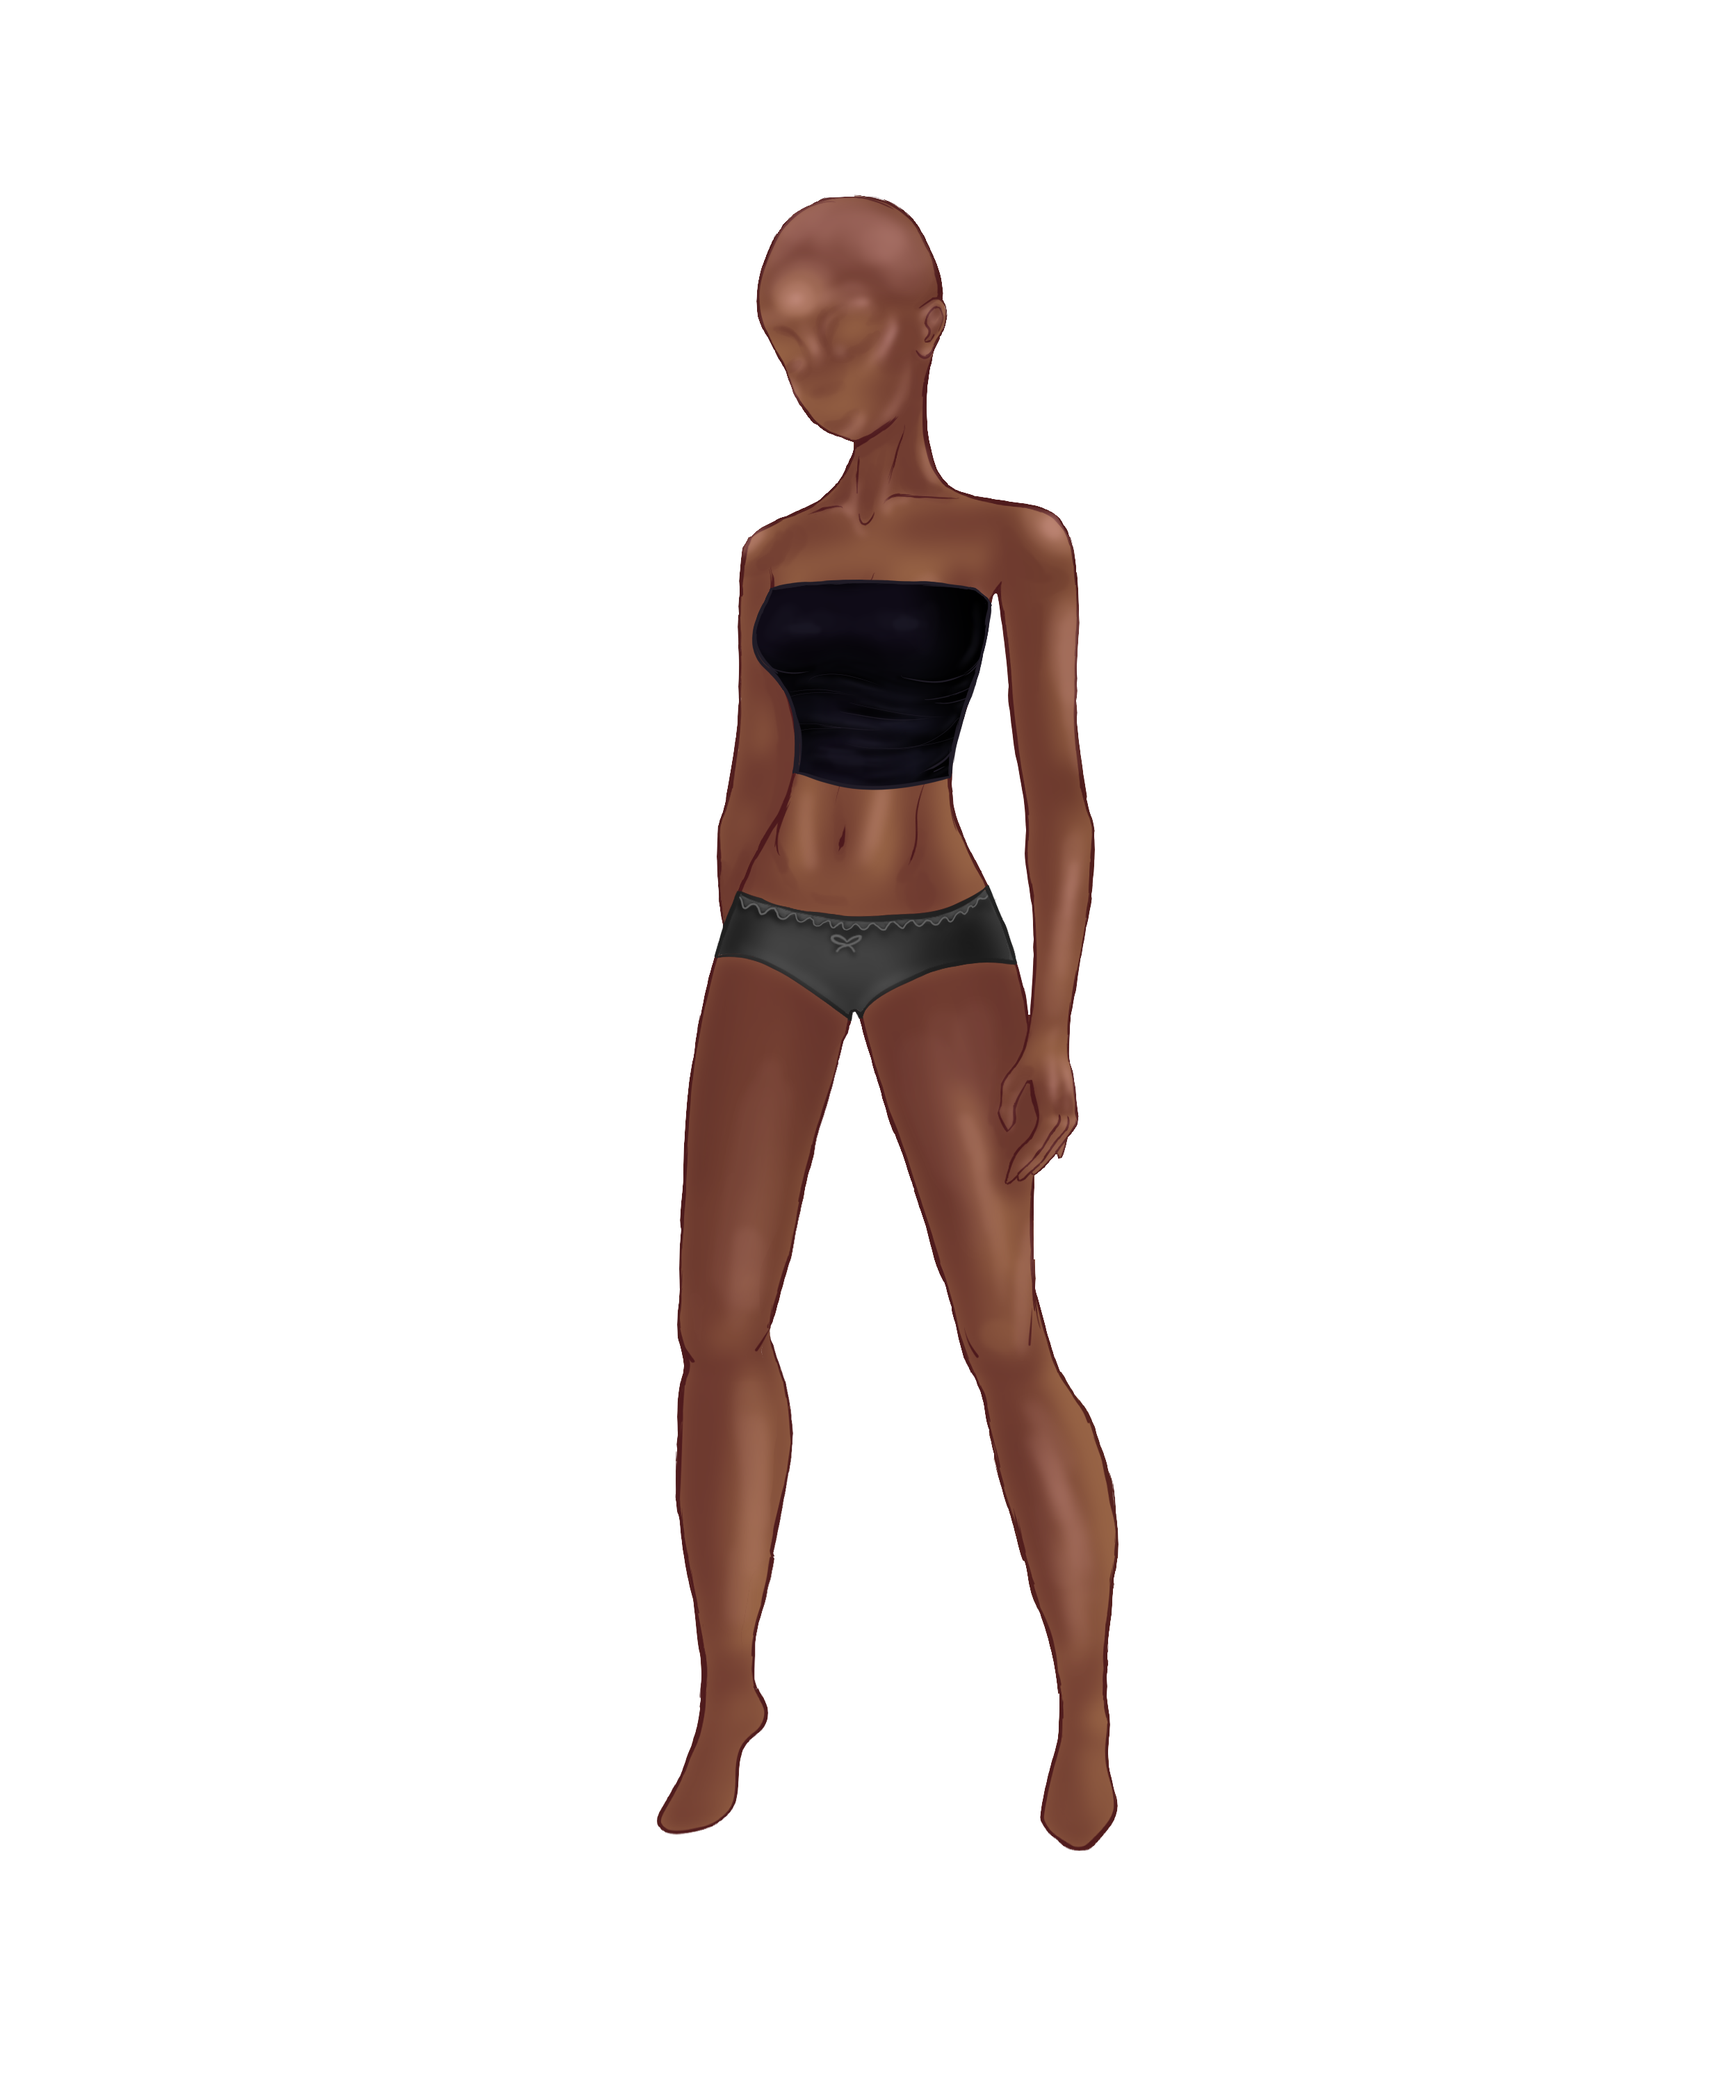
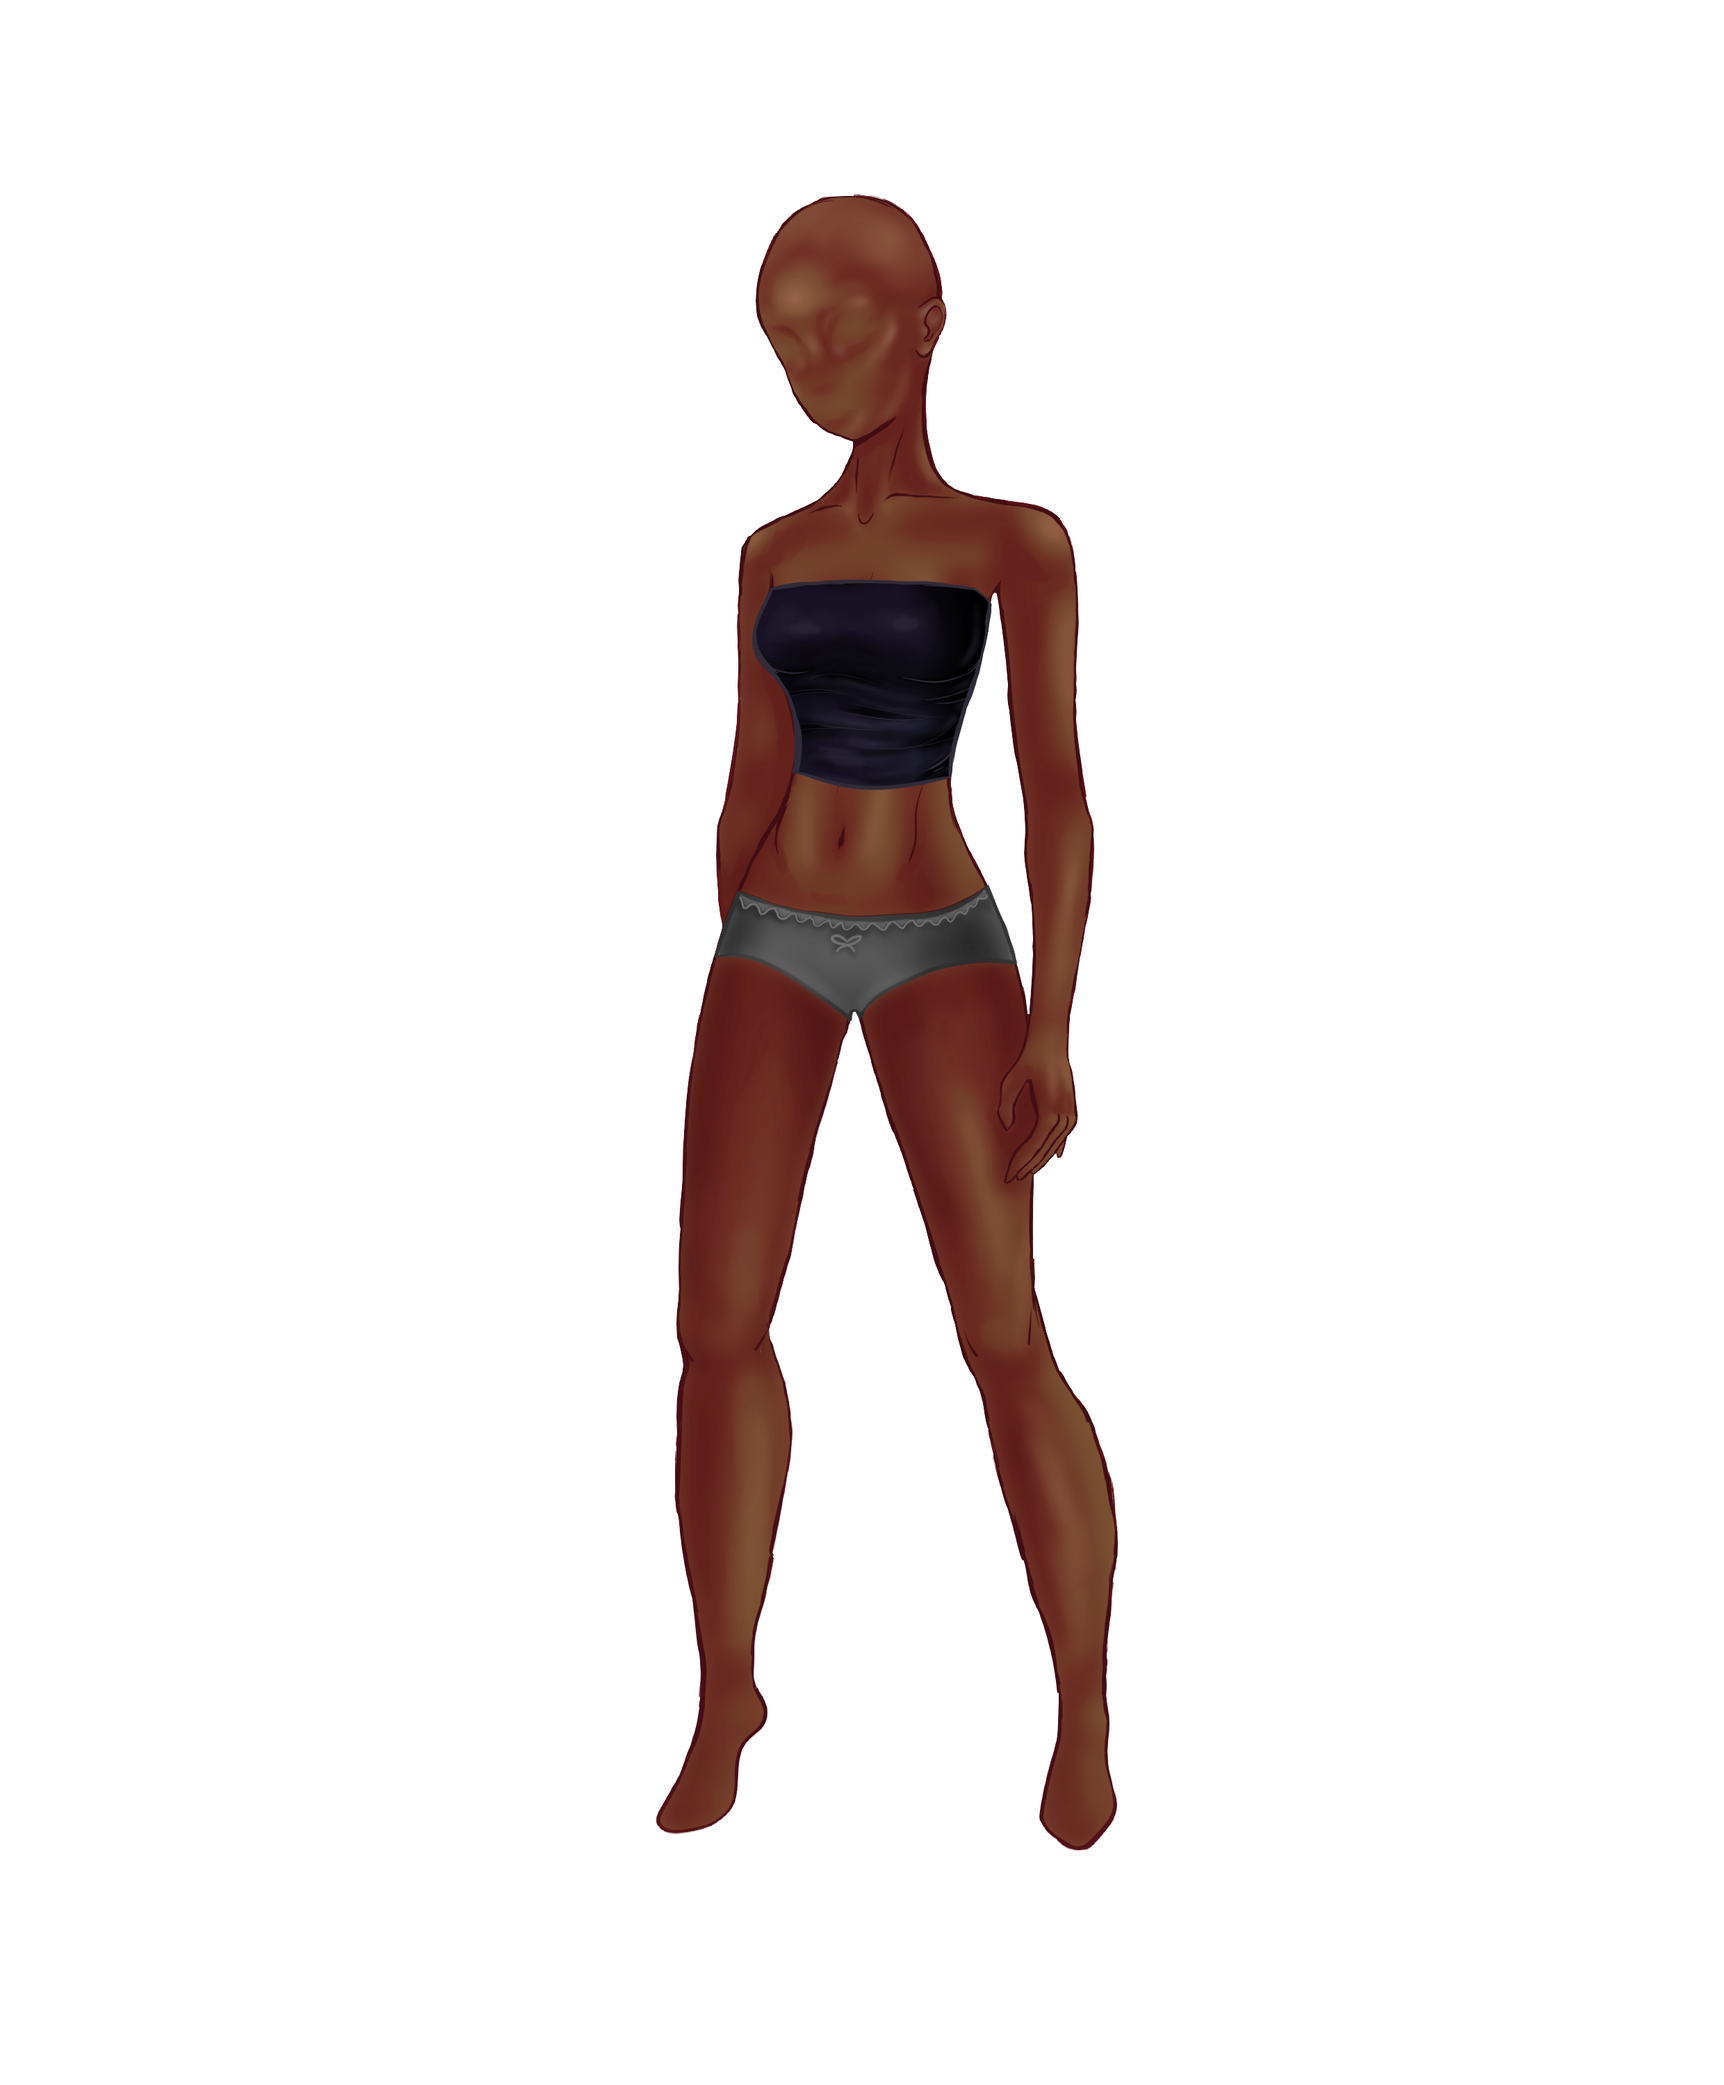
Javascript

diff --git a/dollidemo.html b/dollidemo.html
@@ -2,6 +2,7 @@
 
 
 
+
 <!DOCTYPE html>
 <html lang="en">
 <head>
@@ -69,7 +70,7 @@
         <div id="beautyparlour">  
             <div id="banner">
                <img src="DressupGame_Assets/Logos/Dolli_Logo3.png" id="dollilogo"/>
-               <p id="update">Last updated: 03.04.26</p>
+               <p id="update">Last updated: 03.05.26</p>
             </div>
             <div id="menu">
                 <div class="menubutton"><u>U</u>ndo</div>
@@ -133,7 +134,22 @@
 
                 <!--NOSE-->
 
-                <img src="DressupGame_Assets/Beauty/Nose/nose2_dark.png" class="faces"/>
+                <div class="noses">
+                <div class="noseshape" id="noseshape3">
+                <img style="display:block" src="DressupGame_Assets/Beauty/Nose/nose3_dark.png" class="nosedark"/>
+                <img src="DressupGame_Assets/Beauty/Nose/nose3_light.png" class="noselight"/>
+                </div>
+                <div class="noseshape" id="noseshape1">
+                <img src="DressupGame_Assets/Beauty/Nose/nose1_dark.png"  class="nosedark"/>
+                <img src="DressupGame_Assets/Beauty/Nose/nose1_light.png" class="noselight"/>
+                </div>
+
+                <div class="noseshape" id="noseshape2">
+                <img src="DressupGame_Assets/Beauty/Nose/nose2_dark.png"  class="nosedark"/>
+                <img src="DressupGame_Assets/Beauty/Nose/nose2_light.png" class="noselight"/>
+                </div>
+
+                </div>
 
                 <!--LIPS-->
 
@@ -250,9 +266,9 @@
             <p class="optiontitle"><img class="labelicon" src="DressupGame_Assets/Button_Icons/nosev2.png"/>Noses</p>
              <div class="padding">
             <div class="optioncontainer">
-                    <img loading="lazy" class="beautyoptionsnose" style="background-image:url(DressupGame_Assets/Beauty/Nose/Nosethumbnail/nose2.png)"></img>
-                    <img loading="lazy" class="beautyoptionsnose" style="background-image:url(DressupGame_Assets/Beauty/Nose/Nosethumbnail/nose3.png)"></img>
-                    <img loading="lazy" class="beautyoptionsnose" style="background-image:url(DressupGame_Assets/Beauty/Nose/Nosethumbnail/nose1.png)"></img>
+                    <img  onclick="changeNoseShape('noseshape1', this)" loading="lazy" class="beautyoptionsnose" style="background-image:url(DressupGame_Assets/Beauty/Nose/Nosethumbnail/nose1.png)"></img>
+                    <img  onclick="changeNoseShape('noseshape2', this)" loading="lazy" class="beautyoptionsnose" style="background-image:url(DressupGame_Assets/Beauty/Nose/Nosethumbnail/nose2.png)"></img>
+                    <img  onclick="changeNoseShape('noseshape3', this)" loading="lazy" class="beautyoptionsnose" style="background-image:url(DressupGame_Assets/Beauty/Nose/Nosethumbnail/nose3.png)"></img>
                     <img loading="lazy" class="beautyoptionsnose" ></img>
                     <img loading="lazy" class="beautyoptionsnose" ></img>
                     <img loading="lazy" class="beautyoptionsnose" ></img>
@@ -372,7 +388,7 @@ function showColorOptions(category) {
   const active = document.querySelectorAll(`.coloroption[data-category="${category}"]`);
   active.forEach(el => el.style.display = "block");
 
-  // ✅ hide/show skin color display based on category
+  //  hide/show skin color display based on category
   const skinDisplays = document.getElementsByClassName("skincolorsdisplay");
   for (let i = 0; i < skinDisplays.length; i++) {
     skinDisplays[i].style.display = "none";
@@ -381,7 +397,7 @@ function showColorOptions(category) {
     skinDisplays[slideIndex - 1].style.display = "block";
   }
 
-  // ✅ hide eye color display when switching away from eyes
+  //  hide eye color display when switching away from eyes
   const eyeDisplays = document.getElementsByClassName("eyecolorsdisplay");
   for (let i = 0; i < eyeDisplays.length; i++) {
     eyeDisplays[i].style.display = "none";
@@ -434,6 +450,29 @@ function changeEyeShape(shapeId, el) {
   el.classList.add("active");
 }
 
+
+let currentNoseId = "noseshape3";
+
+function updateNosesForSkin(slideIndex) {
+  const isDark = darkSkinIndices.includes(slideIndex);
+  const activeNose = document.getElementById(currentNoseId);
+  if (!activeNose) return;
+
+  activeNose.querySelectorAll(".nosedark").forEach(img => img.style.display = isDark ? "block" : "none");
+  activeNose.querySelectorAll(".noselight").forEach(img => img.style.display = isDark ? "none" : "block");
+}
+
+function changeNoseShape(shapeId, el) {
+  document.querySelectorAll(".noseshape").forEach(s => s.style.display = "none");
+  currentNoseId = shapeId;
+  document.getElementById(shapeId).style.display = "block";
+  updateNosesForSkin(slideIndex);
+
+  document.querySelectorAll(".beautyoptionsnose").forEach(dot => dot.classList.remove("active"));
+  el.classList.add("active");
+}
+
+
 function changeEyeColor(color, el) {
   currentEyeColor = color;
 
@@ -480,6 +519,7 @@ function skinSlides(n) {
   skincolorsDisplay[slideIndex-1].style.display = "block";
 
   updateEyesForSkin(slideIndex);
+  updateNosesForSkin(slideIndex);
 }
 
 window.onload = function() {
@@ -491,6 +531,7 @@ window.onload = function() {
   showColorOptions("skin");
   setOutline("skin", 0);
   updateEyesForSkin(slideIndex);
+  updateNosesForSkin(slideIndex);
 };
 </script>
 

diff --git a/dollistylesheet.css b/dollistylesheet.css
@@ -669,9 +669,12 @@ img.faces{
     margin-top: 7px;
     margin-right:5px;
 }
+
 img.skins,
 img.darkeyes,
-img.lighteyes{
+img.lighteyes,
+img.nosedark,
+img.noselight{
     width: 1000px;
     height: 410px;
     object-fit: cover;
@@ -681,11 +684,13 @@ img.lighteyes{
     left:60%;
     transform: translate(-50%, -50%);
     margin:auto;
-  display:none;
+    display:none;
 }
+
 .eyeshape{
     display:block;
 }
+
 .labelicon{
     width:30px;
     height:auto;
